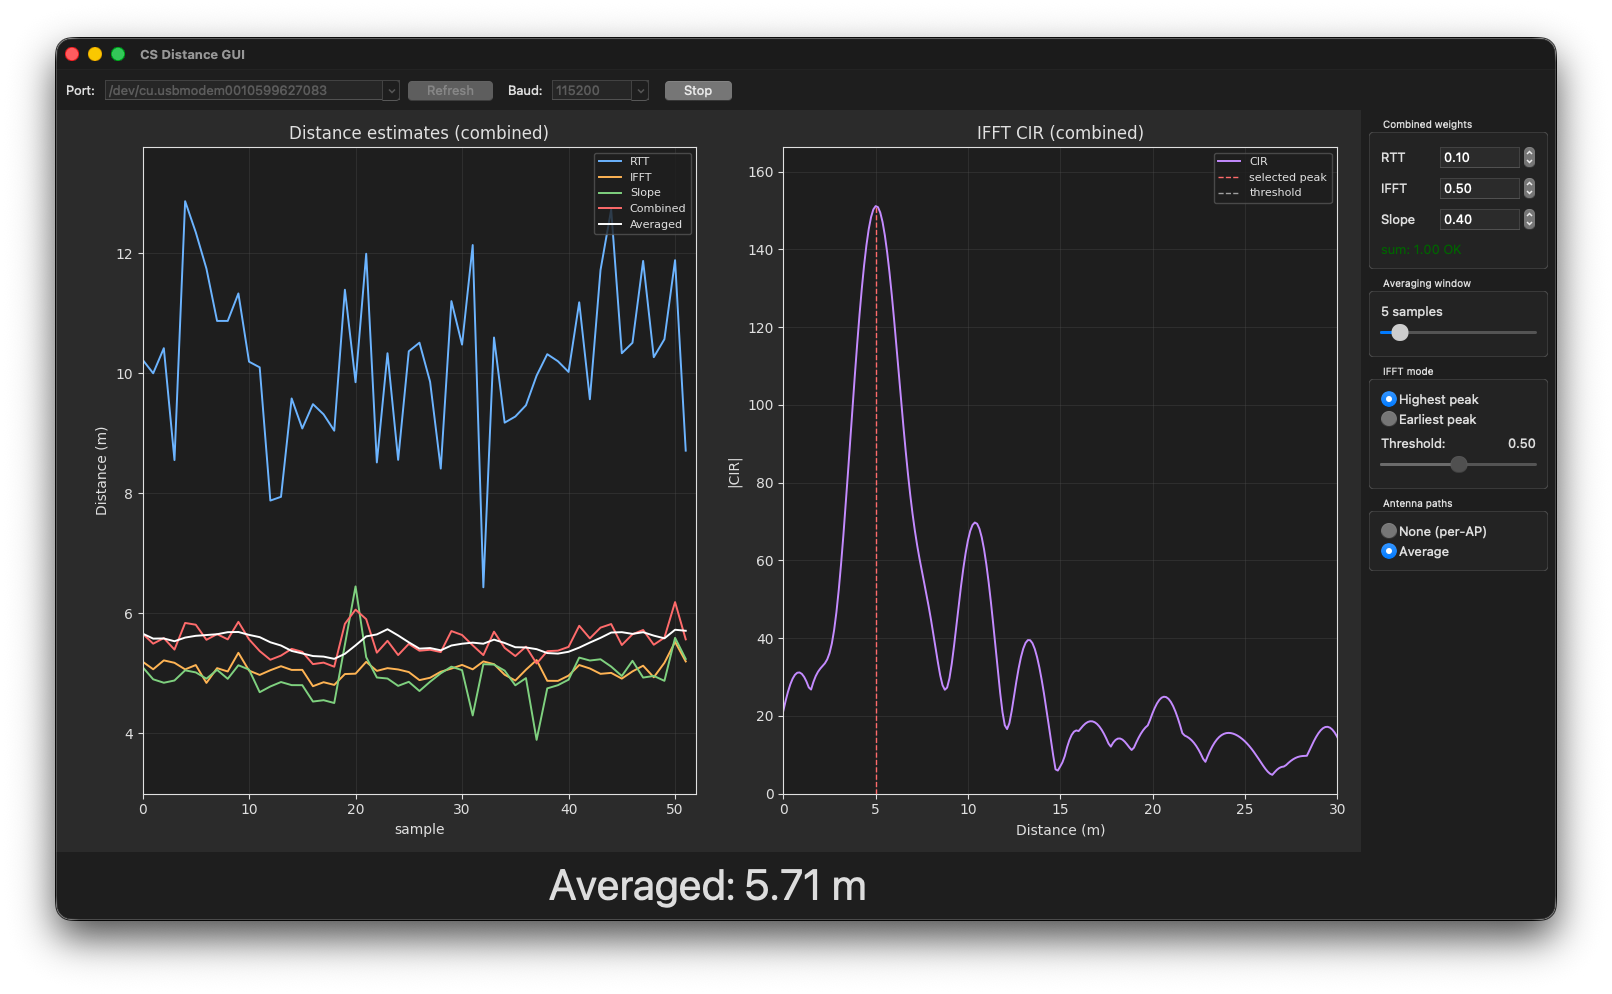
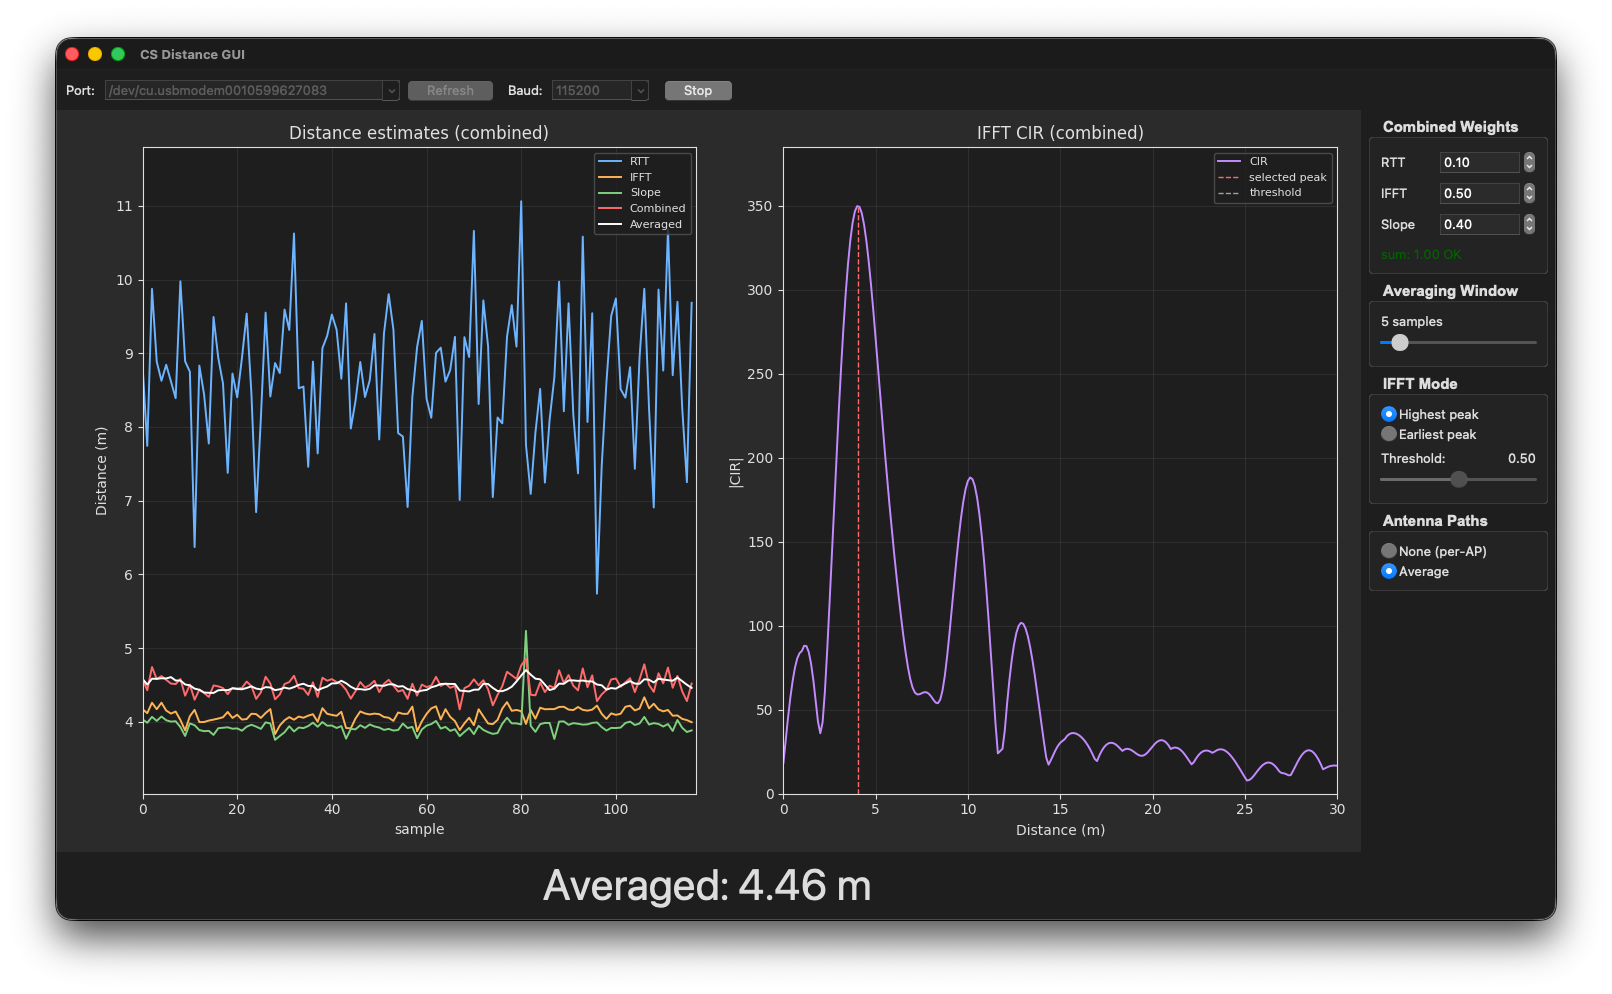
Increased line width of averaged distance in left chart for better visibility
Add serial startup delay, GUI tweaks, bump version

Avoid race on high-speed USB CDC: add a short sleep and reset_input_buffer before the first write in cs_distance and the GUI serial worker to prevent garbled bytes on platforms (e.g. macOS) where baud changes use IOSSIOSPEED.

Improve GUI shutdown: handle WM_DELETE_WINDOW to let the worker send "AT+IQ off" and exit cleanly.

UI polish: configure a Settings.TLabelframe label style and apply it to several label frames (title-cased frame labels) and update the GUI screenshot.

Config and version: enable CONFIG_UART_USE_RUNTIME_CONFIGURE in prj.conf and bump APP_VERSION from "0.7" to "0.8".

diff --git a/distance_estimation/cs_gui.py b/distance_estimation/cs_gui.py
@@ -120,6 +120,11 @@ class SerialWorker(threading.Thread):
                 self._q.put({"type": "error", "msg": f"Open failed: {exc}"})
                 return
 
+            # Let the USB CDC line coding settle before writing. On macOS,
+            # baud rates above 230400 go through IOSSIOSPEED and the first
+            # write can race the VCOM baud switch, garbling bytes.
+            time.sleep(0.2)
+
             try:
                 ser.reset_input_buffer()
                 ser.write(b"AT+IQ on\r\n")
@@ -251,6 +256,17 @@ class CSApp:
         self._rebuild_subplot_grid()
         self._poll_queue()
 
+        root.protocol("WM_DELETE_WINDOW", self._on_close)
+
+    def _on_close(self):
+        # Give the worker a chance to send "AT+IQ off" before the daemon
+        # thread is killed on interpreter shutdown.
+        worker = self.worker
+        if worker is not None and worker.is_alive():
+            self.stop_event.set()
+            worker.join(timeout=3.0)
+        self.root.destroy()
+
     # --------------------------------------------------------------- theme
 
     def _detect_theme(self):
@@ -312,8 +328,11 @@ class CSApp:
         )
         self.lbl_avg.pack(side="bottom", fill="x", padx=8, pady=(4, 8))
 
+        s = ttk.Style()
+        s.configure('Settings.TLabelframe.Label', font=('arial', 11, 'bold'))
+
         # ---- weights ----
-        weights_frame = ttk.LabelFrame(side, text="Combined weights", padding=8)
+        weights_frame = ttk.LabelFrame(side, text="Combined Weights", style="Settings.TLabelframe", padding=8)
         weights_frame.pack(fill="x", pady=(0, 8))
         for label, var in (
             ("RTT", self.var_w_rtt),
@@ -333,7 +352,7 @@ class CSApp:
         self.lbl_weight_status.pack(anchor="w", pady=(4, 0))
 
         # ---- averaging window ----
-        avg_frame = ttk.LabelFrame(side, text="Averaging window", padding=8)
+        avg_frame = ttk.LabelFrame(side, text="Averaging Window", style="Settings.TLabelframe", padding=8)
         avg_frame.pack(fill="x", pady=(0, 8))
         self.lbl_avg_window = ttk.Label(
             avg_frame, text=f"{self.var_avg_window.get()} samples",
@@ -347,7 +366,7 @@ class CSApp:
         self.scale_avg.pack(fill="x")
 
         # ---- IFFT mode ----
-        ifft_frame = ttk.LabelFrame(side, text="IFFT mode", padding=8)
+        ifft_frame = ttk.LabelFrame(side, text="IFFT Mode", style="Settings.TLabelframe", padding=8)
         ifft_frame.pack(fill="x", pady=(0, 8))
         ttk.Radiobutton(
             ifft_frame, text="Highest peak", value="highest",
@@ -371,7 +390,7 @@ class CSApp:
         self._on_ifft_mode()
 
         # ---- antenna paths ----
-        ant_frame = ttk.LabelFrame(side, text="Antenna paths", padding=8)
+        ant_frame = ttk.LabelFrame(side, text="Antenna Paths", style="Settings.TLabelframe", padding=8)
         ant_frame.pack(fill="x", pady=(0, 8))
         ttk.Radiobutton(
             ant_frame, text="None (per-AP)", value="none",
@@ -657,7 +676,8 @@ class CSApp:
             ax_ts.grid(True, alpha=0.3)
             line_dict = {}
             for key, lbl, color in self.metric_labels:
-                (ln,) = ax_ts.plot([], [], label=lbl, color=color, linewidth=1.4)
+                lw = 2.8 if key == "avg" else 1.4
+                (ln,) = ax_ts.plot([], [], label=lbl, color=color, linewidth=lw)
                 line_dict[key] = ln
             ax_ts.legend(loc="upper right", fontsize=8)
             self._style_axes(ax_ts)

diff --git a/distance_estimation/cs_distance.py b/distance_estimation/cs_distance.py
@@ -683,6 +683,12 @@ def main():
         print(f"Error opening serial port: {e}", file=sys.stderr)
         sys.exit(1)
 
+    # Let the USB CDC line coding settle before writing. On macOS, baud
+    # rates above 230400 go through IOSSIOSPEED and the first write can
+    # race the VCOM baud switch, garbling bytes.
+    time.sleep(0.2)
+    ser.reset_input_buffer()
+
     # Enable IQ output on the device
     print("Enabling IQ output... ", end="", flush=True)
     ser.write(b"AT+IQ on\r\n")

diff --git a/src/version.h b/src/version.h
@@ -1,7 +1,7 @@
 #ifndef VERSION_H_
 #define VERSION_H_
 
-#define APP_VERSION "0.7"
+#define APP_VERSION "0.8"
 #define APP_BUILD_NAME "cs_at_command"
 
 #endif /* VERSION_H_ */
